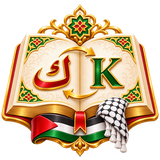
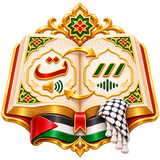
Palestine art for Translation and Worship Guides, and redraw three
Five drawings in the batch: Topics, Transliteration, Vocab, Translation and
Worship Guides, each in light and dark.

Two of them are new. Translation is the Quran screen's second preference
card, and Worship Guides is the card under GUIDES in the Library. Neither had
Palestine art and both were falling back to the Islamic drawing, which is
why those two rows looked out of place next to neighbours that did have it.

Three of them already had Palestine art and have been redrawn. Topics,
Transliteration and Vocab were drawn in 53f732f; the new versions replace
them. Each is used by exactly one key in the Palestine maps, so nothing else
shares the file and nothing else changes with it.

Two keys are worth naming, because neither is the obvious one:

  - The translation card is looked up under 'Translations', plural, while the
    row itself reads "Translation", singular — that is what it changes, one
    edition and not several. The file follows the plural to match the asset
    that was already there.

  - 'Translation Compare' is not the card and does not get this art. It looks
    like the better match and is not: nothing draws it, and the row labelled
    "Translation Compare" in the Quran grid is a 'Tafsir' tool and already
    carries the Tafsir drawing.

  - The worship guides card is spoken of in the singular on the card that
    opens them and in the plural in the key that looks the drawing up, so the
    key carries the plural like every other title-keyed card.
[…]

diff --git a/App.tsx b/App.tsx
@@ -1344,6 +1344,10 @@ const TOOL_IMAGES_PALESTINE: Record<string, any> = {
   /* The Quran screen's reading-preferences card. Its key carries a space, so
      it is quoted here while the single-word ones above are not. */
   'Reader Settings': require('./assets/tool-icons/reader-settings-palestine.png'),
+  /* The Quran screen's second preference card. It is reached under the key
+     'Translations' but the row reads 'Translation', singular, because that is
+     what it changes — one edition, not several. */
+  Translations: require('./assets/tool-icons/translations-palestine.png'),
   /* The library cards. These are looked up by the title the card shows, not
      by a tool name, so the keys are the titles. The Beautiful Names is
      reached under two of them — 'Names' on its own screen and '99 Names' in
@@ -1361,6 +1365,10 @@ const TOOL_IMAGES_PALESTINE: Record<string, any> = {
   Ramadan: require('./assets/tool-icons/ramadan-palestine.png'),
   'Ramadan Guide': require('./assets/tool-icons/ramadan-palestine.png'),
   Shahada: require('./assets/tool-icons/shahada-palestine.png'),
+  /* The worship guides card. Spoken of in the singular on the card that opens
+     them and in the plural in the key that looks the drawing up, so the key
+     carries the plural to match every other title-keyed card. */
+  'Worship guides': require('./assets/tool-icons/worship-guides-palestine.png'),
   /* The Quran study row: bookmarks, memorisation, notes, reading plans and
      the offline copy. Palestine art for the five. */
   Bookmarks: require('./assets/tool-icons/bookmarks-palestine.png'),
@@ -1385,6 +1393,7 @@ const TOOL_IMAGES_PALESTINE_DARK: Record<string, any> = {
   Hizb: require('./assets/tool-icons/hizb-dark-palestine.png'),
   Audio: require('./assets/tool-icons/audio-dark-palestine.png'),
   'Reader Settings': require('./assets/tool-icons/reader-settings-dark-palestine.png'),
+  Translations: require('./assets/tool-icons/translations-dark-palestine.png'),
   Hadith: require('./assets/tool-icons/hadith-dark-palestine.png'),
   Duas: require('./assets/tool-icons/duas-dark-palestine.png'),
   'Muslim Names': require('./assets/tool-icons/muslim-names-dark-palestine.png'),
@@ -1395,6 +1404,7 @@ const TOOL_IMAGES_PALESTINE_DARK: Record<string, any> = {
   Ramadan: require('./assets/tool-icons/ramadan-dark-palestine.png'),
   'Ramadan Guide': require('./assets/tool-icons/ramadan-dark-palestine.png'),
   Shahada: require('./assets/tool-icons/shahada-dark-palestine.png'),
+  'Worship guides': require('./assets/tool-icons/worship-guides-dark-palestine.png'),
   /* The same five, in the dark Palestine set. */
   Bookmarks: require('./assets/tool-icons/bookmarks-dark-palestine.png'),
   Hifz: require('./assets/tool-icons/hifz-dark-palestine.png'),
